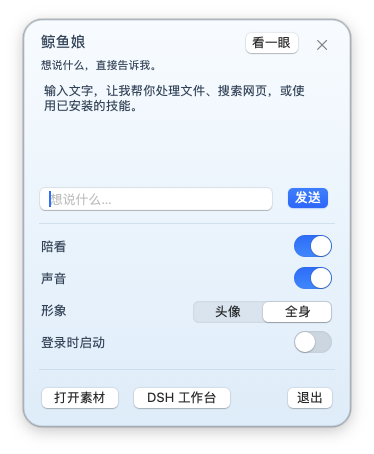
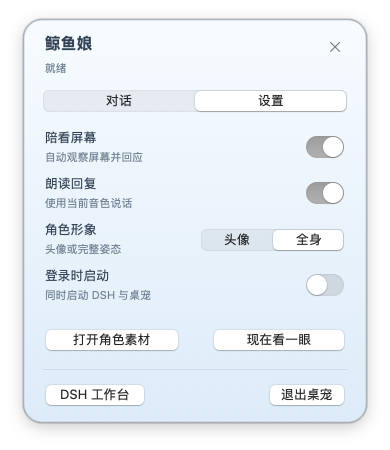
Separate settings from conversation and fix panel occlusion

diff --git a/app/controls.py b/app/controls.py
@@ -1,17 +1,18 @@
-"""The companion's input and controls, matching the generated material study."""
+"""Separate conversation and settings pages in a readable native companion panel."""
 import objc
 from objc import python_method
 from AppKit import (
     NSApplication, NSBackingStoreBuffered, NSButton, NSColor, NSFont,
     NSMakePoint, NSMakeRect, NSPanel, NSScreen, NSScrollView, NSSegmentedControl,
-    NSStatusWindowLevel, NSSwitch, NSTextField, NSImage, NSTextView, NSWindowStyleMaskBorderless,
-    NSWindowCollectionBehaviorCanJoinAllSpaces, NSWindowCollectionBehaviorFullScreenAuxiliary,
+    NSStatusWindowLevel, NSSwitch, NSTextField, NSImage, NSTextView, NSView,
+    NSWindowStyleMaskBorderless, NSWindowCollectionBehaviorCanJoinAllSpaces,
+    NSWindowCollectionBehaviorFullScreenAuxiliary,
 )
 from Foundation import NSObject
 from glass import GlassView
 
-WIDTH, HEIGHT = 328, 408
-INSET, ROW_HEIGHT, SETTINGS_Y = 16, 32, 218
+WIDTH, HEIGHT = 344, 404
+INSET = 20
 CONTENT_WIDTH = WIDTH - INSET * 2
 
 
@@ -26,6 +27,11 @@ class ControlWindow(NSPanel):
         self.orderOut_(None)
 
 
+class PageView(NSView):
+    def isFlipped(self):
+        return True
+
+
 class Controls(NSObject):
     def initWithCallback_(self, callback):
         self = objc.super(Controls, self).init()
@@ -38,95 +44,110 @@ class Controls(NSObject):
         self._window.setOpaque_(False)
         self._window.setBackgroundColor_(NSColor.clearColor())
         self._window.setHasShadow_(True)
-        self._window.setLevel_(NSStatusWindowLevel)
+        self._window.setLevel_(NSStatusWindowLevel + 1)
         self._window.setReleasedWhenClosed_(False)
         self._window.setTitle_('鲸鱼娘 · 对话与设置')
         self._window.setCollectionBehavior_(NSWindowCollectionBehaviorCanJoinAllSpaces | NSWindowCollectionBehaviorFullScreenAuxiliary)
-        view = GlassView.alloc().initWithFrame_(NSMakeRect(0, 0, WIDTH, HEIGHT))
-        self._window.setContentView_(view)
-        self._view = view
+        self._view = GlassView.alloc().initWithFrame_(NSMakeRect(0, 0, WIDTH, HEIGHT))
+        self._window.setContentView_(self._view)
 
-        self._label('鲸鱼娘', INSET, 13, 190, 23, 15)
-        self._status = self._label('想说什么，直接告诉我。', INSET, 39, CONTENT_WIDTH, 18, 11)
-        self._button('看一眼', 216, 11, 66, 28, b'look:')
-        close = self._button('', 286, 11, 26, 28, b'close:')
+        title = self._label('鲸鱼娘', INSET, 15, 240, 24, 16)
+        title.setFont_(NSFont.boldSystemFontOfSize_(16))
+        self._status = self._label('就绪', INSET, 42, CONTENT_WIDTH, 16, 11, muted=True)
+        close = self._button('', WIDTH - INSET - 24, 14, 24, 26, b'close:')
         close.setBordered_(False)
         close.setImage_(NSImage.imageWithSystemSymbolName_accessibilityDescription_('xmark', '关闭面板'))
+        self._tabs = NSSegmentedControl.alloc().initWithFrame_(NSMakeRect(INSET - 2, 68, CONTENT_WIDTH + 4, 28))
+        self._tabs.setSegmentCount_(2)
+        for index, label in enumerate(('对话', '设置')):
+            self._tabs.setLabel_forSegment_(label, index)
+            self._tabs.setWidth_forSegment_(CONTENT_WIDTH / 2, index)
+        self._tabs.setTarget_(self)
+        self._tabs.setAction_(b'tabChanged:')
+        self._view.addSubview_(self._tabs)
 
-        scroll = NSScrollView.alloc().initWithFrame_(NSMakeRect(INSET, 64, CONTENT_WIDTH, 90))
+        self._chat_page = PageView.alloc().initWithFrame_(NSMakeRect(INSET, 108, CONTENT_WIDTH, 230))
+        self._settings_page = PageView.alloc().initWithFrame_(NSMakeRect(INSET, 108, CONTENT_WIDTH, 230))
+        self._view.addSubview_(self._chat_page)
+        self._view.addSubview_(self._settings_page)
+
+        scroll = NSScrollView.alloc().initWithFrame_(NSMakeRect(0, 0, CONTENT_WIDTH, 188))
         scroll.setBorderType_(0)
         scroll.setDrawsBackground_(False)
         scroll.setHasVerticalScroller_(True)
-        self._transcript = NSTextView.alloc().initWithFrame_(NSMakeRect(0, 0, CONTENT_WIDTH - 15, 90))
+        self._transcript = NSTextView.alloc().initWithFrame_(NSMakeRect(0, 0, CONTENT_WIDTH - 15, 188))
         self._transcript.setEditable_(False)
         self._transcript.setDrawsBackground_(False)
         self._transcript.setFont_(NSFont.systemFontOfSize_(12.5))
         self._transcript.setTextColor_(NSColor.colorWithCalibratedRed_green_blue_alpha_(.16, .23, .31, 1))
-        self._transcript.setString_('输入文字，让我帮你处理文件、搜索网页，或使用已安装的技能。')
+        self._transcript.setString_('发送消息，交给 DSH 处理。')
         self._transcript.setVerticallyResizable_(True)
         self._transcript.setHorizontallyResizable_(False)
         self._transcript.textContainer().setWidthTracksTextView_(True)
         scroll.setDocumentView_(self._transcript)
-        view.addSubview_(scroll)
+        self._chat_page.addSubview_(scroll)
 
-        self._input = NSTextField.alloc().initWithFrame_(NSMakeRect(INSET, 168, 234, 24))
+        self._input = NSTextField.alloc().initWithFrame_(NSMakeRect(0, 202, CONTENT_WIDTH - 66, 26))
         self._input.setStringValue_('')
-        self._input.setPlaceholderString_('想说什么…')
+        self._input.setPlaceholderString_('输入消息…')
         self._input.setFont_(NSFont.systemFontOfSize_(13))
         self._input.setBezelStyle_(1)
         self._input.setFocusRingType_(1)
         self._input.setTarget_(self)
         self._input.setAction_(b'send:')
-        view.addSubview_(self._input)
-        self._send = self._button('发送', 258, 165, 54, 30, b'send:')
+        self._chat_page.addSubview_(self._input)
+        self._send = self._button('发送', CONTENT_WIDTH - 56, 199, 56, 30, b'send:', parent=self._chat_page)
         self._send.setBezelColor_(NSColor.systemBlueColor())
         self._send.setContentTintColor_(NSColor.whiteColor())
-        self._send.setKeyEquivalent_('\r')
-        self._line(204)
 
-        self._watch = self._switch('陪看', SETTINGS_Y, b'watchChanged:')
-        self._voice = self._switch('声音', SETTINGS_Y + ROW_HEIGHT, b'voiceChanged:')
-        self._label('形象', INSET, SETTINGS_Y + ROW_HEIGHT * 2 + 1, 130, 23)
-        self._mode = NSSegmentedControl.alloc().initWithFrame_(NSMakeRect(168, SETTINGS_Y + ROW_HEIGHT * 2 - 3, 144, 28))
+        self._watch = self._switch('陪看屏幕', '自动观察屏幕并回应', 0, b'watchChanged:')
+        self._voice = self._switch('朗读回复', '使用当前音色说话', 46, b'voiceChanged:')
+        self._label('角色形象', 0, 94, 120, 20, parent=self._settings_page)
+        self._label('头像或完整姿态', 0, 115, 150, 16, 11, muted=True, parent=self._settings_page)
+        self._mode = NSSegmentedControl.alloc().initWithFrame_(NSMakeRect(156, 99, 148, 28))
         self._mode.setSegmentCount_(2)
         self._mode.setLabel_forSegment_('头像', 0)
         self._mode.setLabel_forSegment_('全身', 1)
         self._mode.setTarget_(self)
         self._mode.setAction_(b'modeChanged:')
-        view.addSubview_(self._mode)
-        self._autostart = self._switch('登录时启动', SETTINGS_Y + ROW_HEIGHT * 3, b'autostartChanged:')
+        self._settings_page.addSubview_(self._mode)
+        self._autostart = self._switch('登录时启动', '同时启动 DSH 与桌宠', 138, b'autostartChanged:')
+        self._button('打开角色素材', -4, 199, 146, 30, b'assets:', parent=self._settings_page)
+        self._button('现在看一眼', 164, 199, 144, 30, b'look:', parent=self._settings_page)
         self._line(350)
-        self._button('打开素材', 12, 366, 90, 28, b'assets:')
-        self._button('DSH 工作台', 104, 366, 110, 28, b'workbench:')
-        self._button('退出', 258, 366, 58, 28, b'quit:')
+        self._button('DSH 工作台', INSET - 4, 363, 112, 28, b'workbench:')
+        self._button('退出桌宠', WIDTH - INSET - 84, 363, 88, 28, b'quit:')
+        self._select_page(1)
         return self
 
     @python_method
-    def _label(self, text, x, y, width, height, size=13):
+    def _label(self, text, x, y, width, height, size=13, muted=False, parent=None):
         label = NSTextField.labelWithString_(text)
         label.setFrame_(NSMakeRect(x, y, width, height))
         label.setFont_(NSFont.systemFontOfSize_(size))
-        label.setTextColor_(NSColor.colorWithCalibratedRed_green_blue_alpha_(.16, .23, .31, 1))
-        self._view.addSubview_(label)
+        rgb = (.40, .48, .55) if muted else (.16, .23, .31)
+        label.setTextColor_(NSColor.colorWithCalibratedRed_green_blue_alpha_(*rgb, 1))
+        (parent if parent is not None else self._view).addSubview_(label)
         return label
 
     @python_method
-    def _button(self, title, x, y, width, height, selector):
+    def _button(self, title, x, y, width, height, selector, parent=None):
         button = NSButton.alloc().initWithFrame_(NSMakeRect(x, y, width, height))
         button.setTitle_(title)
         button.setBezelStyle_(1)
         button.setTarget_(self)
         button.setAction_(selector)
-        self._view.addSubview_(button)
+        (parent if parent is not None else self._view).addSubview_(button)
         return button
 
     @python_method
-    def _switch(self, title, y, selector):
-        self._label(title, INSET, y + 1, 220, 23)
-        switch = NSSwitch.alloc().initWithFrame_(NSMakeRect(WIDTH - INSET - 44, y - 4, 44, 28))
+    def _switch(self, title, detail, y, selector):
+        self._label(title, 0, y + 2, 220, 20, parent=self._settings_page)
+        self._label(detail, 0, y + 23, 240, 16, 11, muted=True, parent=self._settings_page)
+        switch = NSSwitch.alloc().initWithFrame_(NSMakeRect(CONTENT_WIDTH - 44, y + 7, 44, 28))
         switch.setTarget_(self)
         switch.setAction_(selector)
-        self._view.addSubview_(switch)
+        self._settings_page.addSubview_(switch)
         return switch
 
     @python_method
@@ -137,6 +158,17 @@ class Controls(NSObject):
         line.setDrawsBackground_(True)
         line.setBackgroundColor_(NSColor.colorWithCalibratedRed_green_blue_alpha_(.62, .73, .83, .38))
         self._view.addSubview_(line)
+
+    @python_method
+    def _select_page(self, index):
+        self._tabs.setSelectedSegment_(index)
+        self._chat_page.setHidden_(index != 0)
+        self._settings_page.setHidden_(index != 1)
+        self._send.setKeyEquivalent_('\r' if index == 0 else '')
+        if index == 0 and self._input.isEnabled():
+            self._window.makeFirstResponder_(self._input)
+        else:
+            self._window.makeFirstResponder_(self._tabs)
 
     @python_method
     def _configure(self, watch=True, voice=True, mode='portrait', autostart=False):
@@ -160,21 +192,29 @@ class Controls(NSObject):
         self._window.setFrameOrigin_(NSMakePoint(x, y))
         NSApplication.sharedApplication().activateIgnoringOtherApps_(True)
         self._window.makeKeyAndOrderFront_(None)
-        self._window.makeFirstResponder_(self._input)
+        self._select_page(self._tabs.selectedSegment())
 
     @python_method
     def _append(self, name, text):
         self._lines.append(f'{name}：{text}')
         self._transcript.setString_('\n\n'.join(self._lines[-12:]))
-        self._transcript.scrollRangeToVisible_((len(self._transcript.string()), 0))
+        # AppKit ranges use UTF-16 code units, including supplementary emoji.
+        length = len(str(self._transcript.string()).encode('utf-16-le')) // 2
+        self._transcript.scrollRangeToVisible_((length, 0))
 
     @python_method
     def _set_busy(self, busy, status):
         self._send.setEnabled_(not busy)
         self._input.setEnabled_(not busy)
         self._status.setStringValue_(status)
+        self._status.setToolTip_(status)
+
+    def tabChanged_(self, _sender):
+        self._select_page(self._tabs.selectedSegment())
 
     def send_(self, _sender):
+        if self._chat_page.isHidden() or not self._send.isEnabled():
+            return
         text = str(self._input.stringValue()).strip()
         if text:
             self._input.setStringValue_('')

diff --git a/tests/test_controls.py b/tests/test_controls.py
@@ -1,0 +1,42 @@
+"""Native page changes preserve drafts and busy state without hidden Return actions."""
+from pathlib import Path
+import sys
+import unittest
+sys.path.insert(0, str(Path(__file__).resolve().parents[1] / 'app'))
+from AppKit import NSStatusWindowLevel
+from controls import Controls
+from overlay import activate_app
+
+
+class ControlsTests(unittest.TestCase):
+    def test_pages_preserve_draft_busy_state_and_route_actions(self):
+        activate_app()
+        actions = []
+        panel = Controls.alloc().initWithCallback_(lambda *args: actions.append(args))
+        try:
+            self.assertGreater(panel._window.level(), NSStatusWindowLevel)
+            self.assertTrue(panel._chat_page.isHidden())
+            panel._input.setStringValue_('读取这个文件 🐳')
+            panel.send_(None)
+            self.assertEqual(actions, [])
+            panel._select_page(0)
+            panel._set_busy(True, '需要确认，请打开 DSH 工作台。')
+            panel._select_page(1)
+            panel._select_page(0)
+            panel.send_(None)
+            self.assertEqual(actions, [])
+            self.assertEqual(panel._input.stringValue(), '读取这个文件 🐳')
+            panel._set_busy(False, '就绪')
+            panel.send_(None)
+            self.assertEqual(actions, [('send', '读取这个文件 🐳')])
+            panel._append('DSH', '已读取 🐳')
+            self.assertIn('已读取 🐳', panel._transcript.string())
+            panel._select_page(1)
+            panel.workbench_(None)
+            self.assertEqual(actions[-1], ('workbench', None))
+        finally:
+            panel._window.close()
+
+
+if __name__ == '__main__':
+    unittest.main()

diff --git a/app/glass.py b/app/glass.py
@@ -7,10 +7,12 @@ def color(rgba):
     return NSColor.colorWithCalibratedRed_green_blue_alpha_(*(value / 255 for value in rgba))
 
 
-def paint_glass(bounds, radius=18, flipped=False):
+def paint_glass(bounds, radius=18, flipped=False, opaque=False):
     rect = NSMakeRect(bounds.origin.x + 1, bounds.origin.y + 1, bounds.size.width - 2, bounds.size.height - 2)
     path = NSBezierPath.bezierPathWithRoundedRect_xRadius_yRadius_(rect, radius, radius)
-    gradient = NSGradient.alloc().initWithStartingColor_endingColor_(color(SURFACE_BOTTOM), color(SURFACE_TOP))
+    bottom = (*SURFACE_BOTTOM[:3], 255) if opaque else SURFACE_BOTTOM
+    top = (*SURFACE_TOP[:3], 255) if opaque else SURFACE_TOP
+    gradient = NSGradient.alloc().initWithStartingColor_endingColor_(color(bottom), color(top))
     gradient.drawInBezierPath_angle_(path, 270 if flipped else 90)
     color(BORDER_RGBA).setStroke()
     path.setLineWidth_(0.8)
@@ -22,4 +24,4 @@ class GlassView(NSView):
         return True
 
     def drawRect_(self, _rect):
-        paint_glass(self.bounds(), flipped=True)
+        paint_glass(self.bounds(), flipped=True, opaque=True)

diff --git a/docs/DEVELOPMENT.md b/docs/DEVELOPMENT.md
@@ -76,7 +76,11 @@ bubble and control panel share the palette. Native drawing is implemented with C
 [design/prompt.txt](../design/prompt.txt); the [current native controls](../design/implemented-controls.png)
 are an implementation capture, not the generated study.
 
-The control panel owns input, reply history, watch/voice switches, display mode,
+The control panel separates conversation and settings into two tabs. It opens on
+settings initially and retains the selected tab, draft and task state while running.
+Its gradient is opaque inside rounded corners to keep underlying text out, and its
+window level stays above the character/bubble window even when a comment refreshes.
+The panel owns input, reply history, watch/voice switches, display mode,
 login startup, active asset folder and DSH workbench actions. The macOS status
 item and avatar both open the same panel. Input is nonblocking; task execution
 continues in DSH if the desktop window exits. Approvals stay in the DSH UI.
